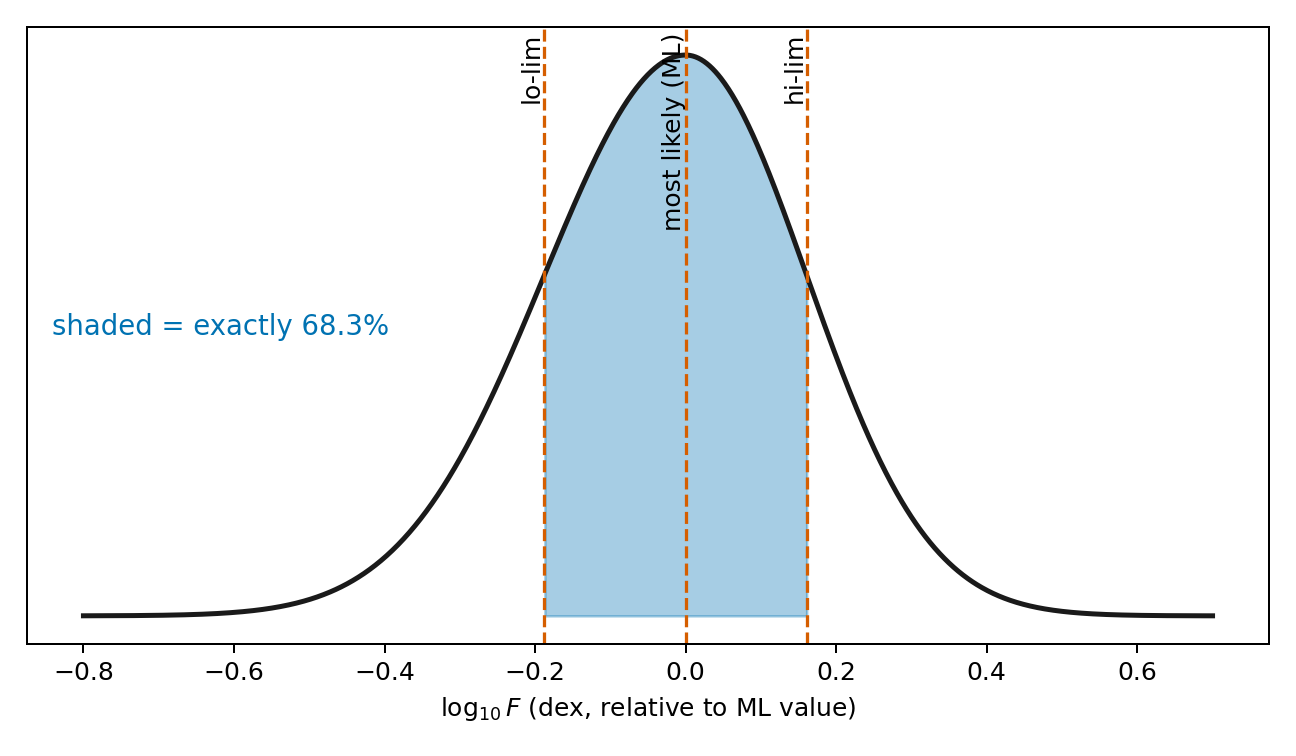
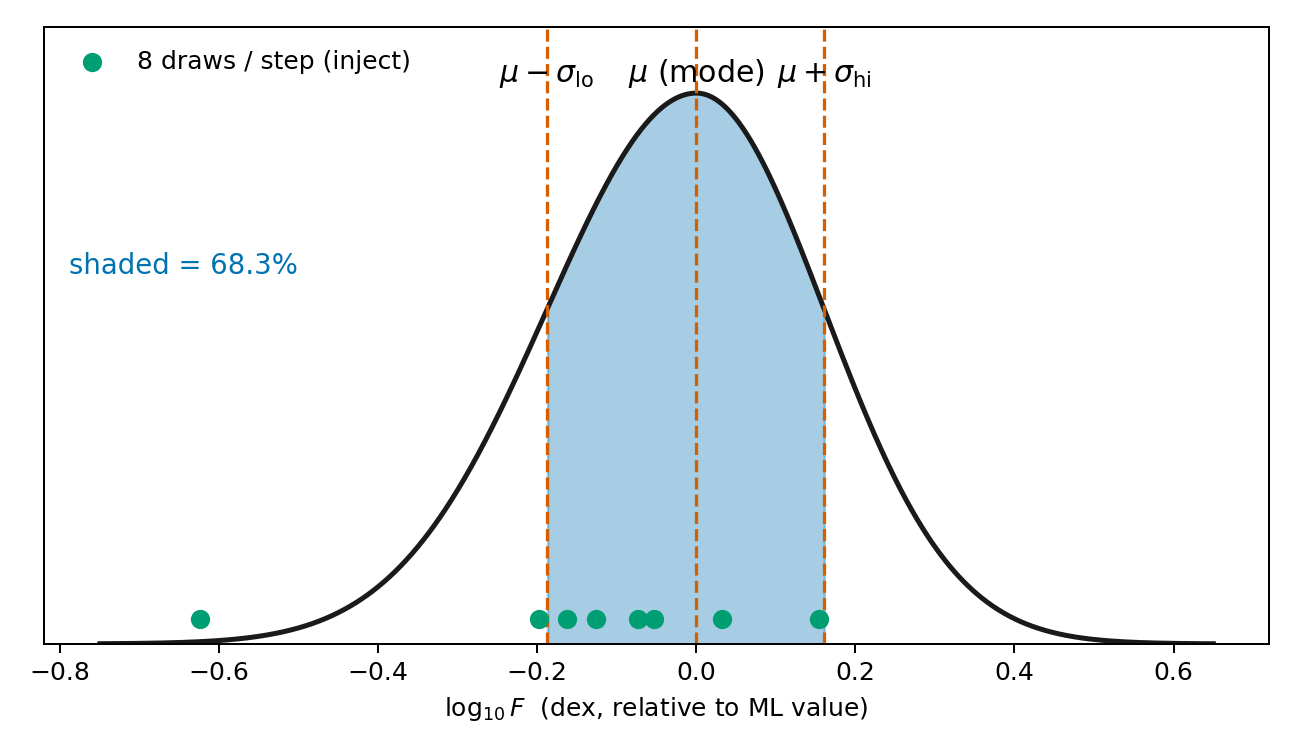
Slides: NWAY wording per review, split-normal with 8 draws + proper labels, single aligned SZWI column, Buchner slide moved up
Claude-Session: https://claude.ai/code/session_01UBstgpgc5mhfYM5hW6yEdG

diff --git a/docs/make_slides.py b/docs/make_slides.py
@@ -65,25 +65,26 @@ def metric_table(ax: plt.Axes, frame: pd.DataFrame, *, rect: tuple[float, float,
     table = ax.table(cellText=frame.values.tolist(), colLabels=frame.columns.tolist(), cellLoc="center", bbox=rect)
     table.auto_set_font_size(False)
     table.set_fontsize(fontsize)
-    for (row, _col), cell in table.get_celld().items():
+    mono_cols = [i for i, c in enumerate(frame.columns) if c == "inputs"]
+    for (row, col), cell in table.get_celld().items():
         cell.set_edgecolor("#dddddd")
         if row == 0:
             cell.set_facecolor(ACCENT)
             cell.set_text_props(color="white", fontweight="bold")
+        elif col in mono_cols:
+            cell.set_text_props(family="monospace")
 
 
 def load_marker_table(metrics_csv: Path | None) -> pd.DataFrame | None:
-    """Compact S/Z/W/I indicator table, R^2 + exp(IG) only, sorted by R^2."""
+    """Single aligned 'S Z W I' column (spaces when absent), R^2 + exp(IG)."""
     if metrics_csv is None or not Path(metrics_csv).exists():
         return None
     t = pd.read_csv(metrics_csv).sort_values("r2")
     rows = []
     for _, r in t.iterrows():
         parts = set(str(r.input_group).split("+"))
-        row = {short: ("●" if name in parts else "·") for name, short in MODALITY_ORDER}
-        row["R²"] = f"{r.r2:.3f}"
-        row["exp(IG)"] = f"{r.exp_info_gain:.2f}"
-        rows.append(row)
+        combo = " ".join(short if name in parts else " " for name, short in MODALITY_ORDER)
+        rows.append({"inputs": combo, "R²": f"{r.r2:.3f}", "exp(IG)": f"{r.exp_info_gain:.2f}"})
     return pd.DataFrame(rows)
 
 
@@ -125,24 +126,25 @@ def main() -> None:
         ], fontsize=14, dy=0.16)
         pdf.savefig(fig); plt.close(fig)
 
-        # ---- 3 NWAY cleaning
+        # ---- 3 Buchner comment (screenshot only)
+        fig = plt.figure(figsize=SLIDE)
+        fig.patch.set_facecolor("white")
+        image_panel(fig, FIGS / "johannes_buchner_comment.png", (0.05, 0.28, 0.90, 0.44))
+        pdf.savefig(fig); plt.close(fig)
+
+        # ---- 4 NWAY cleaning
         fig, ax = new_slide("Crossmatch cleaning with NWAY",
                             "Salvato+2025 (A&A 704 A344): Bayesian matching of eRASS1 X-ray sources to optical counterparts")
         image_panel(fig, FIGS / "fig_dz_log.png", (0.04, 0.08, 0.52, 0.62))
         ax2 = fig.add_axes([0.58, 0.08, 0.40, 0.66]); ax2.axis("off")
         bullets(ax2, [
-            "same-object test: Δz < 0.01 between our\n     counterpart's z and NWAY's (valley of\n     the bimodal distribution)",
-            "wrong (3.3%): Δz ≥ 0.01 — different object",
-            "ambiguous (3.4%): NWAY match has no\n     spec-z — unverifiable",
-            "spurious (5.0%): NWAY assigns no\n     counterpart at all",
-            "keep = correct only (87.5%); paper model\n     2× worse on rejects (0.549 → 0.567)",
-        ], fontsize=12.5, dy=0.175)
-        pdf.savefig(fig); plt.close(fig)
-
-        # ---- 4 Buchner comment (screenshot only)
-        fig = plt.figure(figsize=SLIDE)
-        fig.patch.set_facecolor("white")
-        image_panel(fig, FIGS / "johannes_buchner_comment.png", (0.05, 0.28, 0.90, 0.44))
+            "in NWAY, ~95% of our sources have a\n     confirmed optical match",
+            "3.3%: z mismatch > 0.01",
+            "3.4%: no z — no way to check",
+            "we keep only NWAY-confirmed sources",
+            "PAI performance: R² 0.549",
+            "PAI on mismatched objects: R² 0.29",
+        ], fontsize=13, dy=0.15)
         pdf.savefig(fig); plt.close(fig)
 
         # ---- 5 Errors
